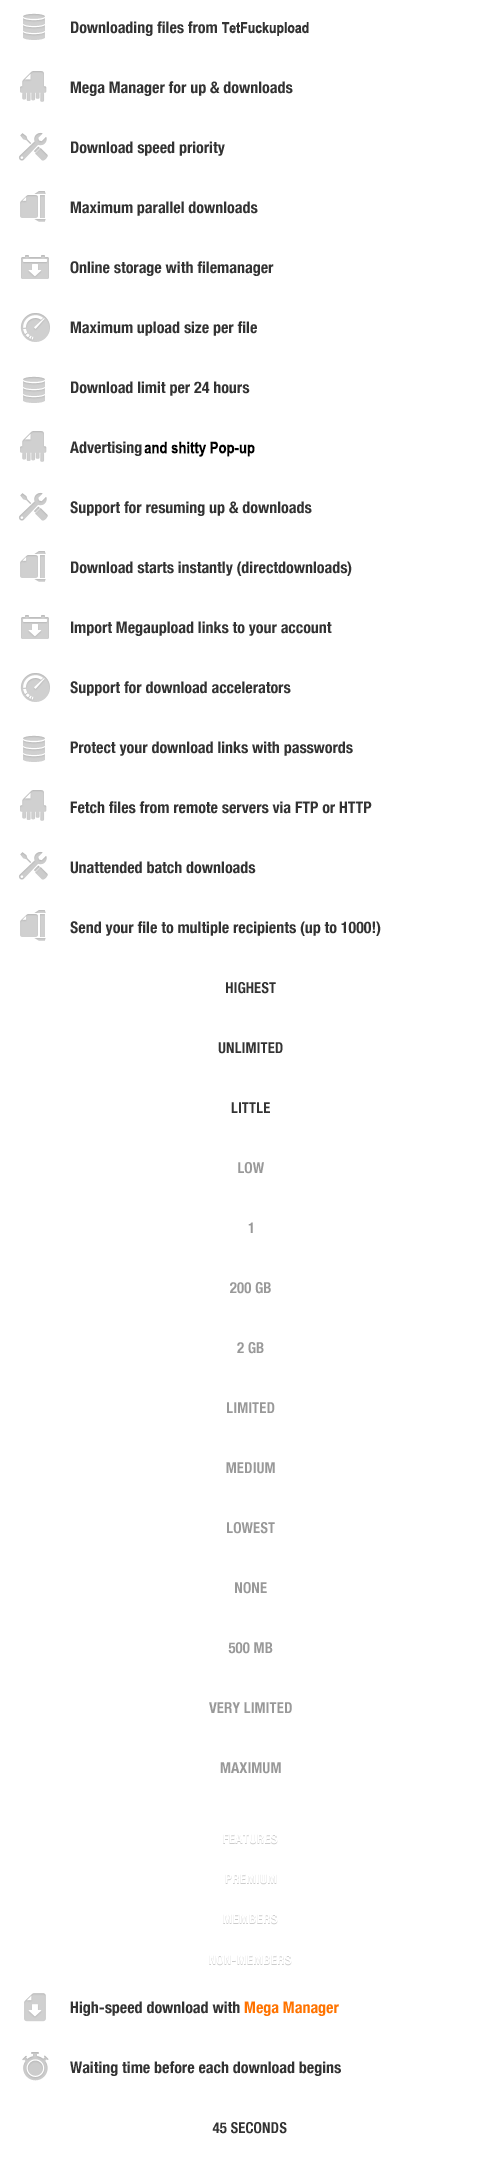
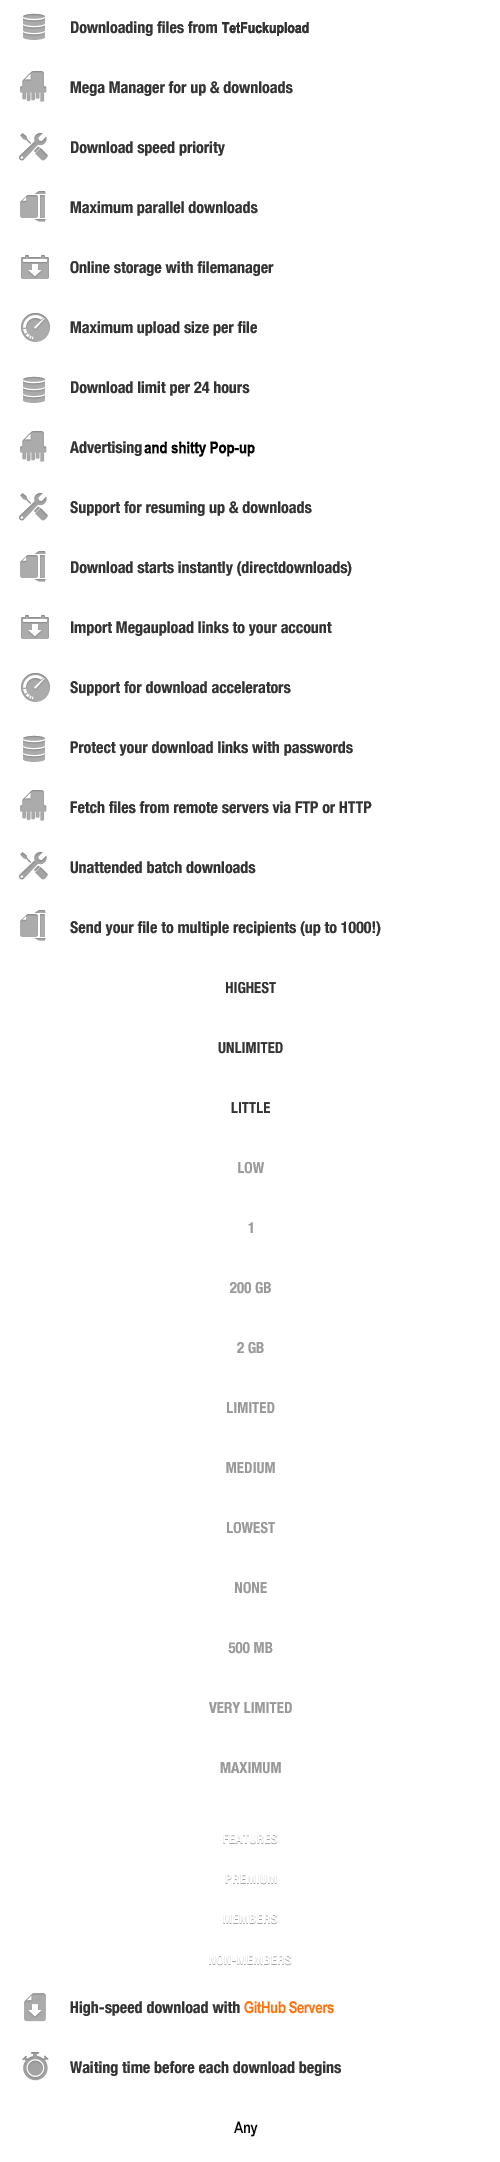
fucking up the countdown

diff --git a/index.html b/index.html
@@ -191,12 +191,12 @@ pageTracker._trackPageview();
 
 			<div class="download_clock_bl" style="display:block;">
               <div class="download_clock">
-                <div class="download_timer_txt" id="countertime"> 00:00:20 </div>
+                <div class="download_timer_txt" id="countertime"> 00:00:70 </div>
               </div>
             </div>
             <audio id="sfx_p3_dude" src="sound\p3dude.m4a" preload="auto"></audio>			
 			<script type="text/javascript">
-			  count=11; 				
+			  count=70; 				
 			  function countdown2() 
 			  {
 			  	if (count > 0)
@@ -207,13 +207,13 @@ pageTracker._trackPageview();
 				    document.getElementById("countertime").innerHTML = '00:00:00';
 				    document.getElementById('dlbutton').style.display = '';
 					document.getElementById('dlbuttondisabled').style.display = 'none';
-				  }
-				  if(count > 0)
+				  }2
+				  if(count > 0 || count < 60)
 				  {
 				    var str = '' + count;
 					if (str.length == 1) str = '0' + str;
 				    document.getElementById("countertime").innerHTML = '00:00:' + str;
-					setTimeout('countdown2()',1000);
+					setTimeout('countdown2()',25);
 				  }
 				}
 			  }
